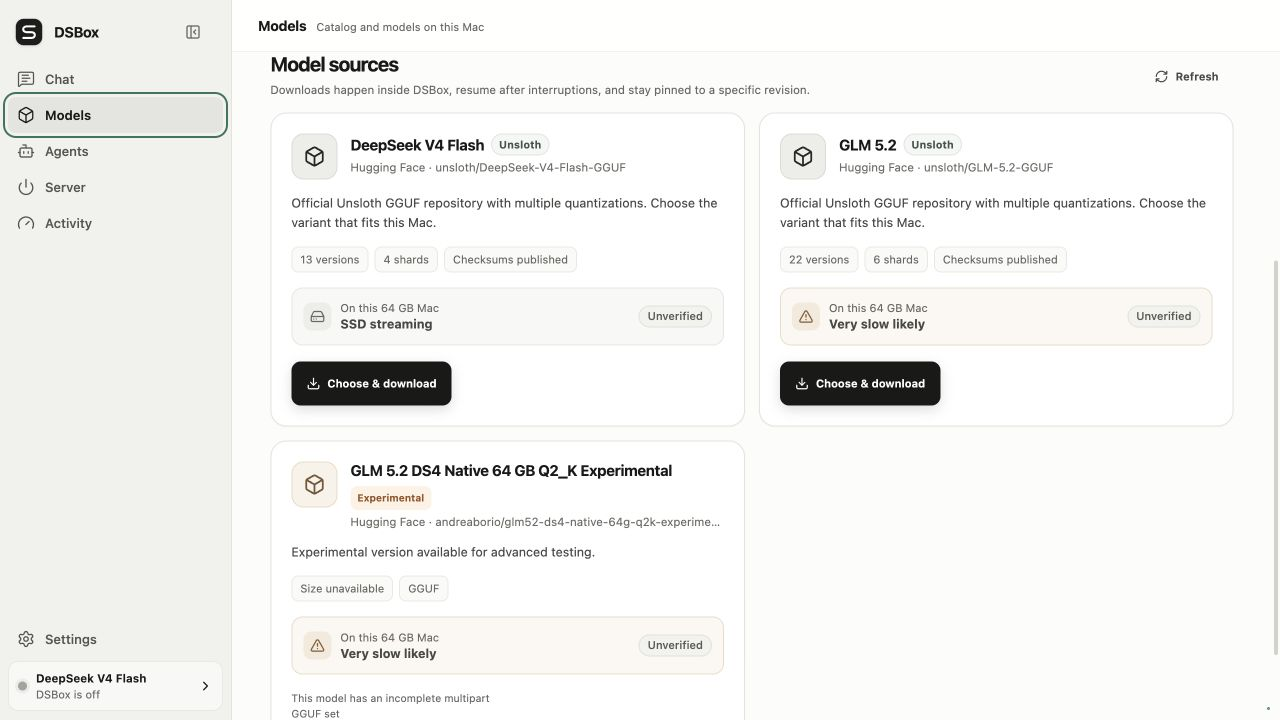
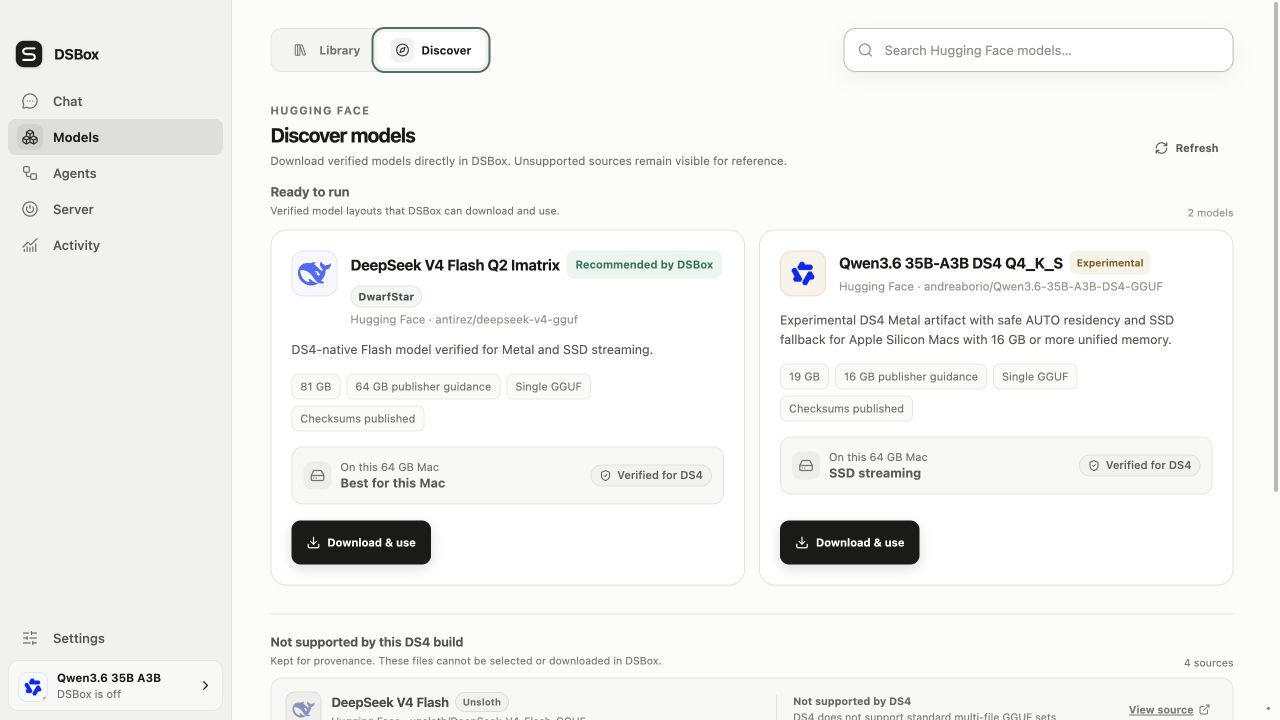
Refresh product guide and screenshots

diff --git a/README.md b/README.md
@@ -28,7 +28,7 @@
 
 ![DSBox local chat](docs/media/01-chat.jpg)
 
-<p align="center"><sub>A local-first workspace with persistent threads, a compact model switcher, optional reasoning, and a clean Codex-style interface.</sub></p>
+<p align="center"><sub>Private local chat with persistent threads, syntax-highlighted code, model controls, and timings measured by DS4.</sub></p>
 
 ## Why DSBox
 
@@ -37,19 +37,73 @@
 - **SSD streaming without artificial lockouts.** DSBox warns when a model may be very slow, but does not block an experiment merely because the GGUF is larger than unified memory.
 - **Resident when it safely fits.** Qwen3.6 uses DS4's guarded Metal AUTO planner, keeping the complete model resident when the working set and current pressure allow it and falling back to SSD otherwise.
 - **A complete local chat.** Threads, reasoning, stop control, automatic scrolling, syntax-highlighted code, one-click copy, and response-level prefill/generation timings.
-- **Bring your coding agent.** Stable OpenAI, Responses, and Anthropic-style loopback endpoints with ready-to-copy configurations.
+- **A bounded agent loop.** Agent mode can inspect the local runtime and model, optionally search the web, and show reasoning, tool activity, results, and sources as they stream.
+- **Bring your coding agent.** The Agents screen exposes model-aware loopback endpoints, copy-ready configurations, and honest unavailable states when the active runtime lacks a required protocol.
+- **Editor-inspired palettes.** Follow macOS or switch instantly between DSBox Light, DSBox Dark, Nord, and Solarized Dark without restarting the model.
 - **Telemetry that says what it knows.** Memory pressure, committed memory, swap, CPU, process RSS, disk, and generation speed are reported; unsupported GPU metrics remain `N/A`.
 
 ## Three steps
 
 1. **Choose a model.** Use a validated GGUF already on the Mac or explicitly confirm an in-app catalog download.
 2. **Turn on DSBox.** The Server screen prepares and launches DS4 with Metal and guarded automatic memory planning.
-3. **Chat or connect an agent.** Use the built-in interface, or copy the endpoint for Codex CLI, Claude Code, OpenCode, Pi, or another compatible client.
+3. **Chat or connect an agent.** Use the built-in interface, or choose a client the active runtime actually supports; the Agents screen shows the available protocols.
 
-| Models | Server |
-| --- | --- |
-| ![DSBox model catalog](docs/media/02-models.jpg) | ![DSBox server power screen](docs/media/03-server.jpg) |
-| Browse revision-pinned sources, compare variants, and see hardware guidance before downloading. | A single power surface keeps startup, adaptive defaults, runtime state, and safe shutdown understandable. |
+![DSBox model catalog](docs/media/02-models.jpg)
+
+<p align="center"><sub>Browse revision-pinned sources, compare hardware guidance, and keep unsupported layouts clearly separated.</sub></p>
+
+![DSBox server power screen](docs/media/03-server.jpg)
+
+<p align="center"><sub>One power surface prepares Metal, applies guarded automatic memory planning, and reports real readiness.</sub></p>
+
+## Agentic chat and coding-agent connections
+
+DSBox has two related agent surfaces, with a deliberately different owner for each loop:
+
+| Surface | Who owns the agent loop | What DSBox provides |
+| --- | --- | --- |
+| **Agent mode in DSBox Chat** | DSBox | A bounded, streamed loop with visible reasoning, tool calls, results, timing, and sources. |
+| **Agents screen** | The connected client | A stable loopback model gateway plus model-aware endpoints and copy-ready configuration. The client owns its tools, permissions, workspace access, and network policy. |
+
+### Built-in Agent mode
+
+DSBox enables Agent mode only after the active runtime advertises tool support through `/v1/models` or accepts a harmless capability probe. If support is unavailable or cannot be verified, chat falls back to standard local inference instead of pretending that tools work.
+
+The current read-only tool registry is intentionally small:
+
+- `runtime_status` reads DS4 lifecycle and inference activity on this Mac;
+- `model_info` reads the model exposed by the active runtime;
+- `web_search` sends a bounded query to DuckDuckGo Lite and returns source-labelled snippets.
+
+Tool arguments are schema-validated before execution. One run is capped at eight tool rounds, eight calls per model turn, 24 calls overall, and three concurrent executions. Stop cancels active model and tool requests. Turning Web off blocks `web_search` in the executor before any network request; when it is on, only the normalized search query leaves the Mac and returned snippets are treated as untrusted source material.
+
+The model-neutral loop works with supported Qwen3.6 and DeepSeek V4 Flash runtimes, but DSBox still serves one selected model at a time. This is not two-model orchestration. The built-in loop also does not currently get filesystem access, a shell, code-writing permissions, browser control, MCP, background runs, approvals, or sub-agents.
+
+![DSBox built-in agent mode](docs/media/04-agent-chat.jpg)
+
+<p align="center"><sub>A bounded local loop with visible reasoning, local and network tool calls, explicit sources, and real timings.</sub></p>
+
+### External coding agents
+
+The **Agents** screen reads the selected runtime's actual protocol surface and disables incompatible clients. In the current Qwen3.6 path, OpenAI Chat Completions supports streaming, tools, `tool_choice`, and multiple tool calls; Responses and Anthropic Messages are not exposed, so Codex CLI and Claude Code are shown as unavailable while compatible clients such as OpenCode, Pi, and direct Chat Completions remain usable.
+
+![DSBox coding-agent connections](docs/media/05-agents.jpg)
+
+<p align="center"><sub>Connect compatible coding tools through a loopback gateway, with protocol limits shown for the active model instead of hidden.</sub></p>
+
+## Themes and honest observability
+
+Activity keeps host telemetry separate from measured model activity. It reports committed memory, memory pressure, cache, system and runtime CPU, disk space, runtime phase, and response speed from DS4. It does not invent unsupported GPU-utilization figures.
+
+![DSBox live activity](docs/media/06-activity.jpg)
+
+<p align="center"><sub>Live macOS resources and measured model throughput, shown separately and without fabricated estimates.</sub></p>
+
+Appearance includes five instant choices: Follow system, DSBox Light, DSBox Dark, Nord, and Solarized Dark. They change the workspace without restarting the local model. These are curated built-in palettes inspired by editor themes, not a VS Code theme-file importer.
+
+![DSBox color palettes](docs/media/07-themes.jpg)
+
+<p align="center"><sub>Switch between the original DSBox workspace and editor-inspired dark palettes without interrupting the runtime.</sub></p>
 
 ## Models, made transparent
 
@@ -119,20 +173,20 @@ npm run dev
 - UI: `http://127.0.0.1:5173`
 - Gateway and control plane: `http://127.0.0.1:4242`
 
-## Coding-agent endpoints
+## Coding-agent endpoint reference
 
-The public loopback gateway stays stable even if the internal DS4 port changes.
+The public loopback gateway stays stable even if the internal DS4 port changes. Route availability still follows the selected DS4 runtime; the **Agents** screen is the source of truth for what can be used now.
 
-| Protocol | Base URL | Endpoint |
+| Protocol | Endpoint | Availability |
 | --- | --- | --- |
-| OpenAI Chat | `http://127.0.0.1:4242/v1` | `/chat/completions` |
-| OpenAI Responses | `http://127.0.0.1:4242/v1` | `/responses` |
-| Anthropic Messages | `http://127.0.0.1:4242` | `/v1/messages` |
-| Model discovery | `http://127.0.0.1:4242/v1` | `/models` |
+| OpenAI Chat | `http://127.0.0.1:4242/v1/chat/completions` | Supported by the current Qwen3.6 path, including streaming and tools. |
+| OpenAI Responses | `http://127.0.0.1:4242/v1/responses` | Only when the selected runtime exposes Responses; current Qwen3.6 does not. |
+| Anthropic Messages | `http://127.0.0.1:4242/v1/messages` | Only when the selected runtime exposes Anthropic Messages; current Qwen3.6 does not. |
+| Model discovery | `http://127.0.0.1:4242/v1/models` | Reports the model and capabilities exposed by the active runtime. |
 
 The **Agents** screen generates configurations using the currently selected model and gateway settings. If gateway authentication is enabled, copy the real key from Settings instead of using a placeholder.
 
-Example Codex provider:
+When the Agents screen marks Codex CLI as available, an example provider is:
 
 ```toml
 [model_providers.ds4]
@@ -213,11 +267,11 @@ The table below uses the 86.72 GB DeepSeek V4 Flash IQ2XXS/SExpQ8 GGUF and the i
 
 ```mermaid
 flowchart LR
-    UI["React + Electron UI"] -->|"control API + SSE"| CP["DSBox control plane"]
+    UI["React + Electron UI"] -->|"control, chat, and agent events"| CP["DSBox control plane"]
     HF["Hugging Face sources"] -->|"revision-pinned downloads"| CP
-    CP -->|"argv spawn + lifecycle"| DS4["ds4-server · Metal"]
-    UI -->|"local chat"| GW["Gateway · 127.0.0.1:4242"]
-    AG["Coding agent"] -->|"OpenAI / Responses / Anthropic"| GW
+    CP -->|"argv spawn, chat, and bounded tool loop"| DS4["ds4-server · Metal"]
+    CP -->|"optional web_search query"| WEB["DuckDuckGo Lite"]
+    AG["External coding agent"] -->|"runtime-supported protocol"| GW["Gateway · 127.0.0.1:4242"]
     GW -->|"text requests + streamed responses"| DS4
     DS4 --> SSD["GGUF · expert cache · KV disk"]
     CP -->|"macOS metrics + logs"| UI